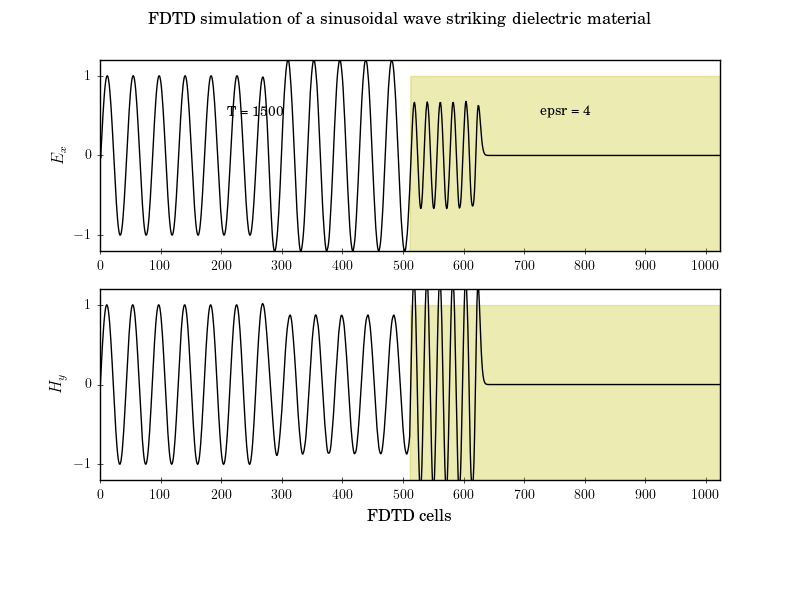
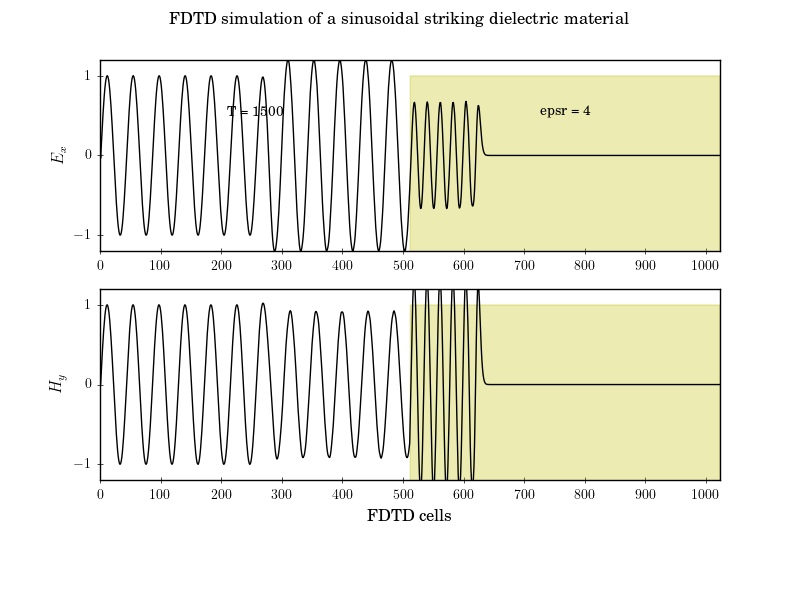
simulation of a propagating sinusoidal striking a dielectric medium

Changed region(s): [[0.125, 0.48, 0.625, 0.81], [0.1875, 0.0, 0.8125, 0.06], [0.5, 0.12, 0.5312, 0.15]]

diff --git a/fd1d/program/fd1d_1_4.py b/fd1d/program/fd1d_1_4.py
@@ -3,8 +3,7 @@
 # Name: D.Saravanan
 # Date: 22/10/2021
 
-""" Simulation of a propagating sinusoidal wave of 700 MHz
-striking a medium with a relative dielectric constant of 4 """
+""" Simulation of a propagating sinusoidal striking a dielectric medium """
 
 import matplotlib.pyplot as plt
 import numpy as np
@@ -14,65 +13,63 @@ plt.style.use("../pyplot.mplstyle")
 
 
 def visualize(ns: int, nx: int, epsr: float, cb: np.ndarray, ex: np.ndarray, hy: np.ndarray) -> None:
-	fig, (ax1, ax2) = plt.subplots(2, sharex=False, gridspec_kw={"hspace": 0.2})
-	fig.suptitle(r"FDTD simulation of a sinusoidal wave striking dielectric material")
-	medium = (0.5/cb - 1)/(epsr - 1) if epsr > 1 else (0.5/cb - 1)
-	medium[medium==0] = -1.5
-	ax1.plot(ex, "k", lw=1)
-	ax1.fill_between(range(nx), medium, medium[0], color='y', alpha=0.3)
-	ax1.text(nx/4, 0.5, f"T = {ns}", horizontalalignment="center")
-	ax1.text(3*nx/4, 0.5, f"epsr = {epsr}", horizontalalignment="center")
-	ax1.set(xlim=(0, nx-1), ylim=(-1.2, 1.2), ylabel=r"$E_x$")
-	ax1.set(xticks=range(0, nx+1, round(nx//10,-1)), yticks=np.arange(-1, 1.2, 1))
-	ax2.plot(hy, "k", lw=1)
-	ax2.fill_between(range(nx), medium, medium[0], color='y', alpha=0.3)
-	ax2.set(xlim=(0, nx-1), ylim=(-1.2, 1.2), xlabel=r"FDTD cells", ylabel=r"$H_y$")
-	ax2.set(xticks=range(0, nx+1, round(nx//10,-1)), yticks=np.arange(-1, 1.2, 1))
-	plt.subplots_adjust(bottom=0.2, hspace=0.45)
-	plt.savefig("fd1d_1_4.png")
+    fig, (ax1, ax2) = plt.subplots(2, sharex=False, gridspec_kw={"hspace": 0.2})
+    fig.suptitle(r"FDTD simulation of a sinusoidal striking dielectric material")
+    medium = (0.5/cb - 1)/(epsr - 1) if epsr > 1 else (0.5/cb - 1)
+    medium[medium==0] = -1e3
+    ax1.plot(ex, "k", lw=1)
+    ax1.fill_between(range(nx), medium, medium[0], color='y', alpha=0.3)
+    ax1.text(nx/4, 0.5, f"T = {ns}", horizontalalignment="center")
+    ax1.text(3*nx/4, 0.5, f"epsr = {epsr}", horizontalalignment="center")
+    ax1.set(xlim=(0, nx-1), ylim=(-1.2, 1.2), ylabel=r"$E_x$")
+    ax1.set(xticks=range(0, nx+1, round(nx//10,-1)), yticks=np.arange(-1, 1.2, 1))
+    ax2.plot(hy, "k", lw=1)
+    ax2.fill_between(range(nx), medium, medium[0], color='y', alpha=0.3)
+    ax2.set(xlim=(0, nx-1), ylim=(-1.2, 1.2), xlabel=r"FDTD cells", ylabel=r"$H_y$")
+    ax2.set(xticks=range(0, nx+1, round(nx//10,-1)), yticks=np.arange(-1, 1.2, 1))
+    plt.subplots_adjust(bottom=0.2, hspace=0.45)
+    plt.savefig("fd1d_1_4.png")
 
 
-def sinusoidal(t: int, ddx: float = 0.01, freq: float = 700e6) -> float:
-	dt: float = ddx/6e8  # time step
-	return np.sin(2 * np.pi * freq * dt * t)
+def sinusoidal(t: int, ddx: float, freq: float) -> float:
+    dt: float = ddx/6e8  # time step
+    return np.sin(2 * np.pi * freq * dt * t)
 
 
-def field(t: int, nx: int, cb: np.ndarray, ex: np.ndarray, hy: np.ndarray, bc: np.ndarray):
-	# calculate the Hy field
-	hy[0:nx-1] = hy[0:nx-1] + 0.5 * (ex[0:nx-1] - ex[1:nx])
-	# calculate the Ex field
-	ex[1:nx] = ex[1:nx] + cb[1:nx] * (hy[0:nx-1] - hy[1:nx])
-	# put a sinusoidal wave at the low end
-	ex[1] = ex[1] + sinusoidal(t, 0.01, 700e6)
-	# absorbing boundary conditions
-	ex[0], bc[0], bc[1] = bc[0], bc[1], ex[1]
-	ex[nx-1], bc[3], bc[2] = bc[3], bc[2], ex[nx-2]
-
-
-def dielectric(nx: int, epsr: float = 1) -> np.ndarray:
-	cb = 0.5 * np.ones(nx, dtype=np.float64)
-	cb[nx//2:] = 0.5/epsr
-	return cb
+def dielectric(nx: int, epsr: float) -> np.ndarray:
+    cb = 0.5 * np.ones(nx, dtype=np.float64)
+    cb[nx//2:] = 0.5/epsr
+    return cb
 
 
 def main():
 
-	nx: int = 1024
-	ns: int = 1500
+    nx: int = 1024
+    ns: int = 1500
 
-	ex = np.zeros(nx, dtype=np.float64)
-	hy = np.zeros(nx, dtype=np.float64)
+    ex = np.zeros(nx, dtype=np.float64)
+    hy = np.zeros(nx, dtype=np.float64)
 
-	bc = np.zeros(4, dtype=np.float64)
+    bc = np.zeros(4, dtype=np.float64)
 
-	epsr: float = 4 # relative permittivity
-	cb: np.ndarray = dielectric(nx, epsr)
+    ddx: float = 0.01  # cell size (m)
+    dt: float = ddx/6e8  # time step
+    epsr: float = 4  # relative permittivity
+    cb: np.ndarray = dielectric(nx, epsr)
 
-	for t in range(1, ns+1):
-		field(t, nx, cb, ex, hy, bc)
+    for t in np.arange(1, ns+1).astype(np.int32):
+        # calculate the Ex field
+        ex[1:nx] = ex[1:nx] + cb[1:nx] * (hy[0:nx-1] - hy[1:nx])
+        # put a sinusoidal wave at the low end
+        ex[1] = ex[1] + sinusoidal(t, 0.01, 700e6)
+        # absorbing boundary conditions
+        ex[0], bc[0], bc[1] = bc[0], bc[1], ex[1]
+        ex[nx-1], bc[3], bc[2] = bc[3], bc[2], ex[nx-2]
+        # calculate the Hy field
+        hy[0:nx-1] = hy[0:nx-1] + 0.5 * (ex[0:nx-1] - ex[1:nx])
 
-	visualize(ns, nx, epsr, cb, ex, hy)
+    visualize(ns, nx, epsr, cb, ex, hy)
 
 
 if __name__ == "__main__":
-	main()
+    main()
